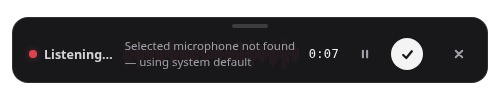
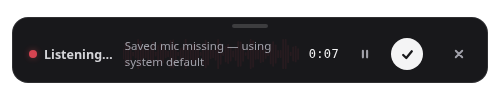
fix(overlay): keep the mic fallback notice within two lines
With the detail line capped at the 32px strip, "Selected microphone not
found — using system default" wrapped to three lines on CI's Linux font
(DejaVu Sans, 167px strip while recording) and its last line was clipped.
Shorten it to "Saved mic missing — using system default": one-line width
over strip width goes 1.92 → 1.48 on DejaVu and 1.70 → 1.30 on Noto Sans.

overlay-smoke now requires every fixed notice (mic fallback while
recording and paused, paused hint, nothing-heard hint) to fit two lines
with headroom for wider fonts: one-line width ≤ 1.6× the line width. The
old text fails that on this machine's default font, not only on CI.

Changed region(s): [[0.24, 0.4421, 0.6, 0.5684], [0.24, 0.6105, 0.51, 0.7368], [0.51, 0.5474, 0.54, 0.5684]]

diff --git a/scripts/overlay-smoke.js b/scripts/overlay-smoke.js
@@ -164,7 +164,42 @@ app.whenReady().then(async () => {
         detailText: document.getElementById("detail-text").textContent,
         detailClientHeight: document.getElementById("detail-text").clientHeight,
         detailScrollHeight: document.getElementById("detail-text").scrollHeight,
+        detailLines: (() => {
+          const range = document.createRange();
+          range.selectNodeContents(document.getElementById("detail-text"));
+          return new Set([...range.getClientRects()].filter((r) => r.width > 0)
+            .map((r) => Math.round(r.top))).size;
+        })(),
+        detailWidth: document.getElementById("detail-text").clientWidth,
+        detailTextWidth: (() => {
+          const detail = document.getElementById("detail-text");
+          const probe = document.createElement("span");
+          probe.style.cssText = "position:absolute;visibility:hidden;white-space:nowrap";
+          probe.style.font = getComputedStyle(detail).font;
+          probe.textContent = detail.textContent;
+          document.body.appendChild(probe);
+          const w = probe.getBoundingClientRect().width;
+          probe.remove();
+          return Math.round(w * 10) / 10;
+        })(),
       })`);
+
+    // A fixed notice must show whole in the 32px strip: at most two 16px
+    // lines. Line count alone only proves it for this machine's fonts: CI's
+    // Linux fallback font (DejaVu Sans) sets text ~8% wider and leaves a
+    // narrower strip, and wrapped the old mic notice to three lines there
+    // (#250). So also require headroom:
+    // the text's one-line width within 1.6x the line width, i.e. two lines
+    // minus the slack word wrapping can leave at a line end.
+    const TWO_LINE_BUDGET = 1.6;
+    const fitsTwoLines = (ui) =>
+      ui.detailLines <= 2 &&
+      ui.detailScrollHeight <= ui.detailClientHeight &&
+      ui.detailTextWidth <= TWO_LINE_BUDGET * ui.detailWidth;
+    const fitDetail = (ui) =>
+      `lines=${ui.detailLines} text=${ui.detailTextWidth}px line=${ui.detailWidth}px ` +
+      `ratio=${(ui.detailTextWidth / ui.detailWidth).toFixed(2)} (budget ${TWO_LINE_BUDGET}) ` +
+      `scroll=${ui.detailScrollHeight}/${ui.detailClientHeight}`;
 
     // Deterministic control of device errors and delayed streams for race coverage.
     await win.webContents.executeJavaScript(`(() => {
@@ -203,13 +238,16 @@ app.whenReady().then(async () => {
       JSON.stringify(fallbackCalls));
     check("fallback notice is fully visible while recording",
       fallbackUi.detailText.includes("using system default") &&
-        fallbackUi.detailScrollHeight <= fallbackUi.detailClientHeight,
-      JSON.stringify(fallbackUi));
+        fallbackUi.detailScrollHeight <= fallbackUi.detailClientHeight &&
+        fitsTwoLines(fallbackUi),
+      `${JSON.stringify(fallbackUi.detailText)} ${fitDetail(fallbackUi)}`);
     win.webContents.send("record:pause-toggle");
     await waitForStatus(win, "paused");
     fallbackUi = await uiState();
     check("fallback notice remains visible while paused",
       fallbackUi.detailText.includes("using system default"), fallbackUi.detailText);
+    check("fallback notice fits two lines with font headroom while paused",
+      fitsTwoLines(fallbackUi), fitDetail(fallbackUi));
     win.webContents.send("record:pause-toggle");
     await waitForStatus(win, "recording");
     fallbackUi = await uiState();
@@ -457,6 +495,11 @@ app.whenReady().then(async () => {
       `resume=${pausedUi.resumeDisplay} pause=${pausedUi.pauseDisplay} aria-pressed=${pausedUi.ariaPressed}`
     );
     check(
+      "paused hint fits two lines with font headroom",
+      fitsTwoLines(pausedUi),
+      fitDetail(pausedUi)
+    );
+    check(
       "paused hint takes the detail line (data-detail set)",
       pausedUi.dataDetail === true && pausedUi.detailDisplay === "block",
       `data-detail=${pausedUi.dataDetail} detail display=${pausedUi.detailDisplay}`
@@ -690,6 +733,15 @@ app.whenReady().then(async () => {
       "the waveform canvas fills the 32px strip with no detail line",
       meterFillsWave(emptyGeo),
       `wave=${JSON.stringify(emptyGeo.wave)} meter=${JSON.stringify(emptyGeo.meter)}`
+    );
+
+    win.webContents.send("pipeline:status", { status: "empty" });
+    await waitForStatus(win, "empty");
+    const emptyHintUi = await uiState();
+    check(
+      "the nothing-heard hint fits two lines with font headroom",
+      emptyHintUi.detailText !== "" && fitsTwoLines(emptyHintUi),
+      `${JSON.stringify(emptyHintUi.detailText)} ${fitDetail(emptyHintUi)}`
     );
 
     const oneLine = await stageDone("staged preview");

diff --git a/renderer/overlay.js b/renderer/overlay.js
@@ -609,7 +609,7 @@ async function startRecording({ sid, deviceId, maxSeconds, livePreview: live }) 
         // A saved USB/Bluetooth device can disappear between sessions. Retry
         // once with the system default instead of making every dictation fail.
         if (!deviceId || !isMissingMicrophone(err)) throw err;
-        microphoneNotice = "Selected microphone not found — using system default";
+        microphoneNotice = "Saved mic missing — using system default";
         const stream = await navigator.mediaDevices.getUserMedia({
           audio: microphoneConstraints(),
         });

diff --git a/scripts/screenshots.js b/scripts/screenshots.js
@@ -80,7 +80,7 @@ app.whenReady().then(async () => {
     setStatus(
       "recording",
       "Listening…",
-      "Selected microphone not found — using system default"
+      "Saved mic missing — using system default"
     );
     "";
   `);
